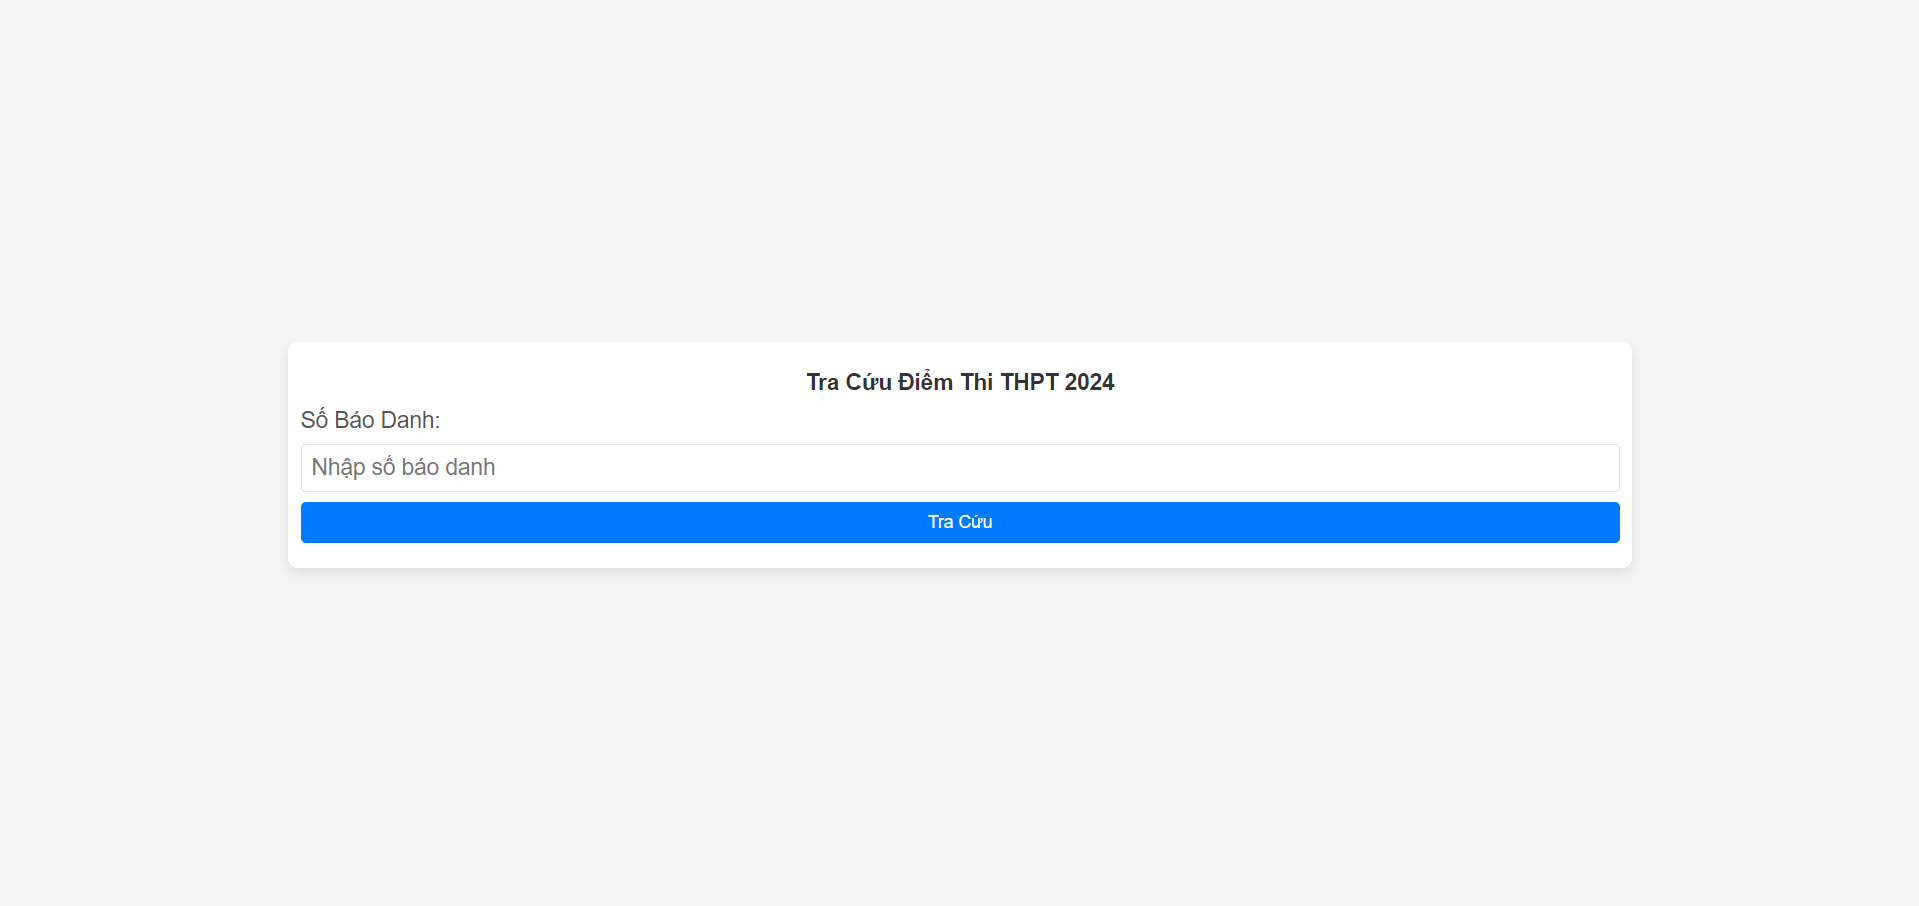
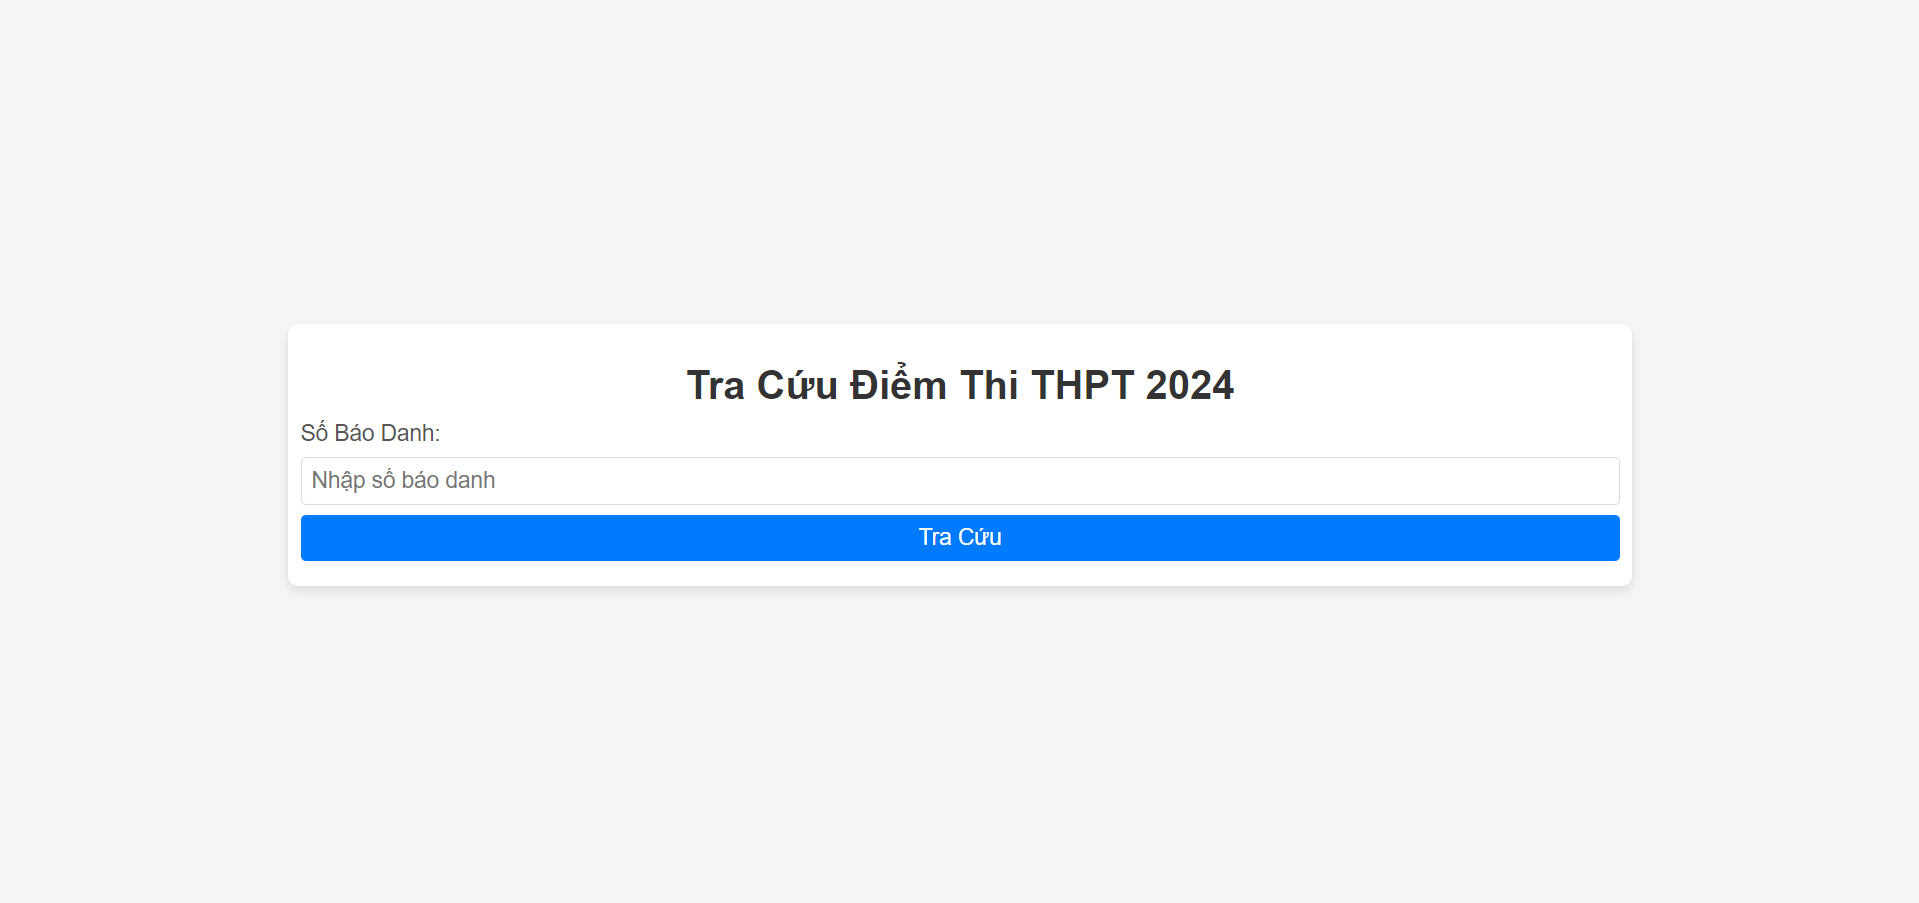
update

Changed region(s): [[0.1537, 0.4341, 0.8609, 0.6512], [0.3382, 0.4031, 0.6456, 0.4651]]

diff --git a/style.css b/style.css
@@ -32,7 +32,7 @@ h1 {
     color: #333;
     margin-bottom: 10px; 
     text-align: center;
-    font-size: 18px; 
+    font-size: 32px; 
 }
 
 form {
@@ -61,7 +61,7 @@ button {
     border-radius: 4px;
     background-color: #007BFF;
     color: white;
-    font-size: 14px; 
+    font-size: 18px; 
     cursor: pointer;
     transition: background-color 0.3s;
 }
@@ -121,11 +121,11 @@ button:hover {
     }
 
     h1 {
-        font-size: 20px;
+        font-size: 32px;
     }
 
     input, button {
-        font-size: 14px;
+        font-size: px;
         padding: 8px;
     }
 
